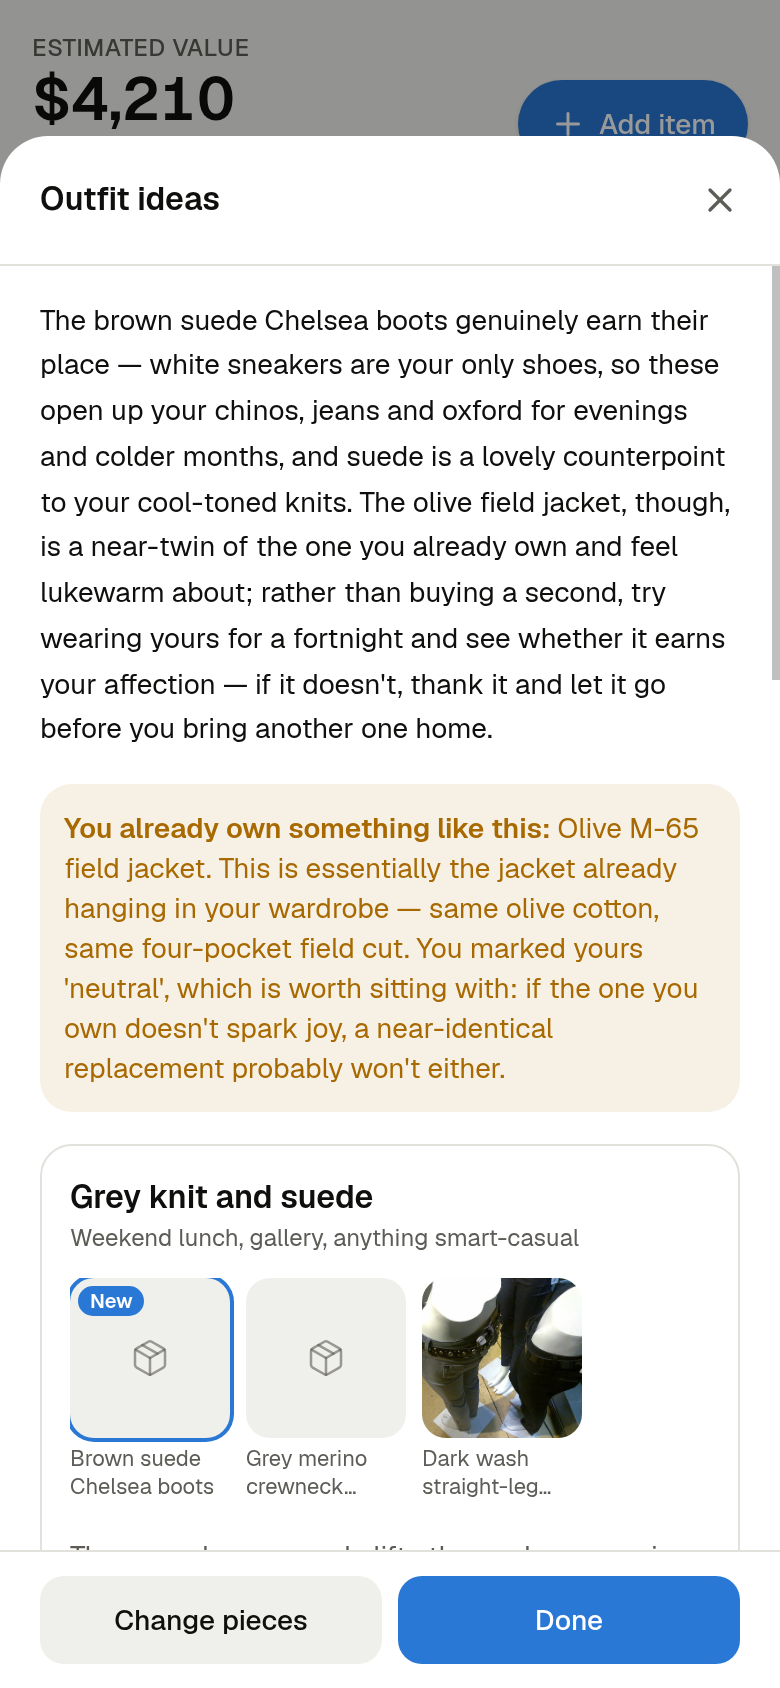
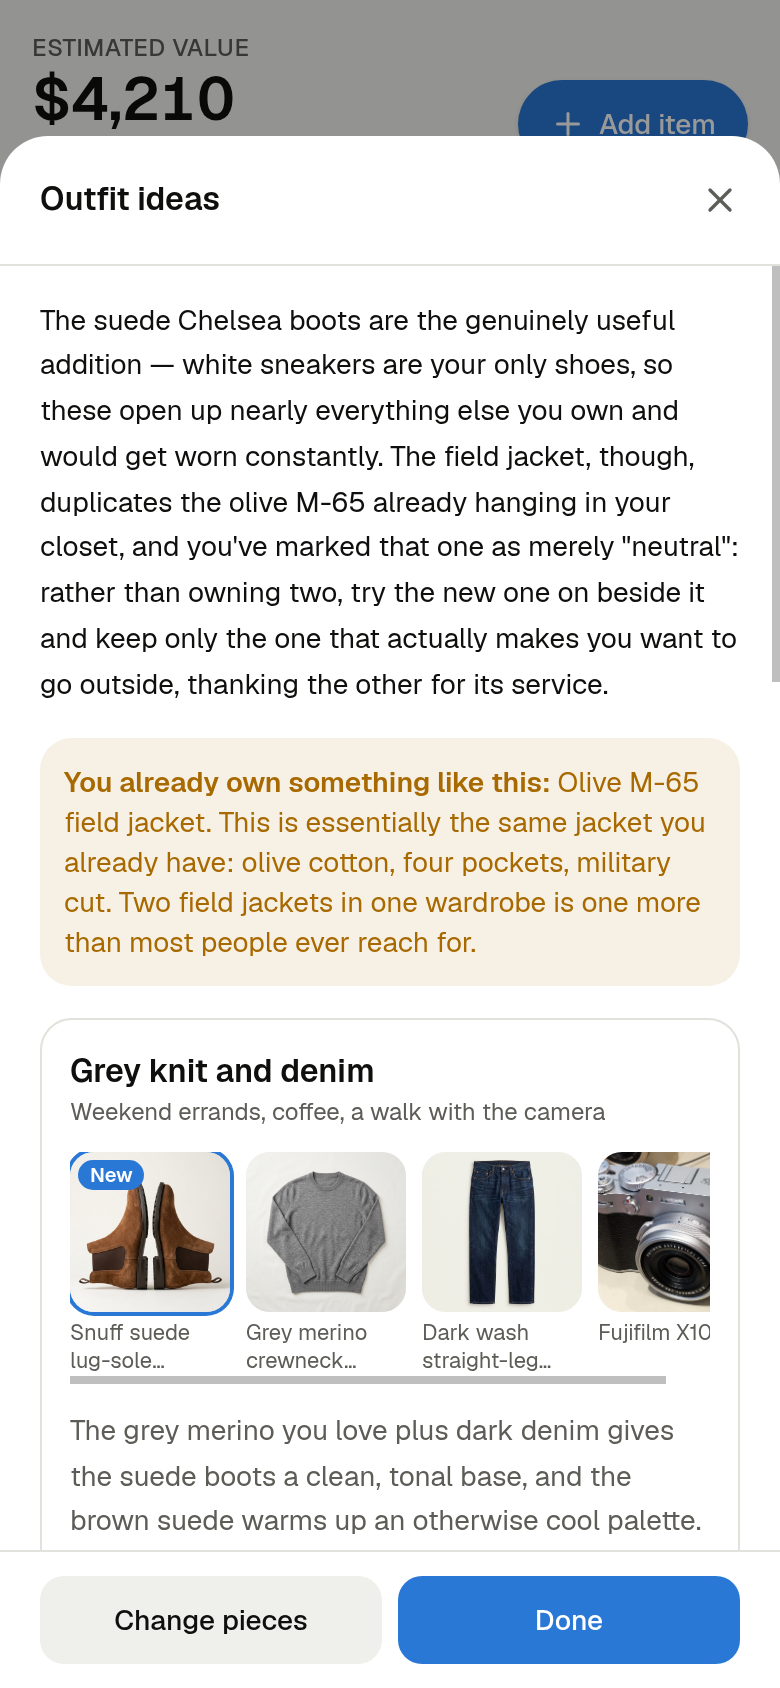
README: redo the Try it on example with a photo for every piece
The boots were a name only and most of the wardrobe had no photo, so the
screenshots showed placeholders. The boots and wardrobe now use consistent
Gemini-generated product photos; the jacket is still the CC0 Commons photo.

Changed region(s): [[0.0308, 0.1848, 0.9538, 0.9242]]

diff --git a/README.md b/README.md
@@ -67,22 +67,23 @@ The same check runs in the chat. Tell the assistant *"I'm thinking of buying…"
 
 Thinking of buying clothes? Tap **Try it on**, add photos or names of the pieces, and Claude pairs them with clothes you already own, using their photos too. It also flags anything that nearly duplicates what's in your wardrobe. Tap **See it on me** and [Gemini](https://aistudio.google.com/apikey) draws your saved photo wearing that outfit. This part needs a `GEMINI_API_KEY`; the pairings work without one.
 
-In this example, the pieces being considered are an **olive field jacket** (a photo) and **brown suede Chelsea boots** (just a name). The sample wardrobe already includes jeans, a white oxford shirt, a grey merino sweater and an olive M-65 field jacket rated *neutral*. Claude suggested four outfits. It also pointed out that the new jacket is a near-copy of the M-65, and suggested deciding whether that one still sparks joy before buying another.
+In this example, the pieces being considered are an **olive field jacket** and **brown suede Chelsea boots**, both added as photos. The sample wardrobe already includes dark jeans, a white oxford shirt, a grey merino sweater, navy chinos, white sneakers and an olive M-65 field jacket rated *neutral*. Claude suggested four outfits. It also pointed out that the new jacket is a near-copy of the M-65, and suggested deciding whether that one still sparks joy before buying another.
 
 <p align="center">
   <img src="docs/screenshots/mobile-try-on-ideas.png" width="36%" alt="Outfit ideas: advice, and a warning that the new jacket nearly duplicates an owned M-65" />
-  <img src="docs/screenshots/mobile-try-on.png" width="36%" alt="The Field jacket layered outfit, with its try-on image" />
+  <img src="docs/screenshots/mobile-try-on.png" width="36%" alt="The Field jacket layer-up outfit, with its try-on image" />
 </p>
 
-The try-on for the *Field jacket layered* outfit (the new jacket and boots with the owned oxford shirt and jeans), made from the photo on the left:
+The try-on for the *Field jacket layer-up* outfit (the new jacket and boots with the owned grey merino sweater and dark jeans). The inputs are the photo of the person and the photos of each piece; the result is on the right:
 
 <p align="center">
-  <img src="docs/screenshots/try-on-model.jpg" width="30%" alt="Input photo: a fictional model in a white t-shirt and grey trousers" />
-  <img src="docs/screenshots/try-on-jacket.jpg" width="30%" alt="Photo of the olive field jacket being considered" />
-  <img src="docs/screenshots/try-on-result.jpg" width="30%" alt="Try-on result: the same model wearing the field jacket, white oxford shirt, dark jeans and brown suede Chelsea boots" />
+  <img src="docs/screenshots/try-on-model.jpg" width="23%" alt="Input photo: a fictional model in a white t-shirt and grey trousers" />
+  <img src="docs/screenshots/try-on-jacket.jpg" width="23%" alt="Photo of the olive field jacket being considered" />
+  <img src="docs/screenshots/try-on-boots.jpg" width="23%" alt="Photo of the brown suede Chelsea boots being considered" />
+  <img src="docs/screenshots/try-on-result.jpg" width="23%" alt="Try-on result: the same model wearing the field jacket over the grey merino sweater, with dark jeans and brown suede Chelsea boots" />
 </p>
 
-The person in the photo is **fictional**: they were generated with Gemini for this example, so no real person's likeness is used. In the app, you use a photo of yourself. It's stored locally and only sent to Gemini when you ask to see an outfit on you.
+The person in the photo is **fictional**: they were generated with Gemini for this example, so no real person's likeness is used. The boots and the sample wardrobe's product photos were generated with Gemini too. In the app, you use a photo of yourself. It's stored locally and only sent to Gemini when you ask to see an outfit on you.
 
 ## Tech stack
 
@@ -158,7 +159,7 @@ Each item counts at its **estimated value**, falling back to its **MSRP** and th
 
 ## Screenshot credits
 
-The screenshots use sample data. The person in the try-on example is fictional and was generated with Gemini. The product photos come from Wikimedia Commons:
+The screenshots use sample data. In the try-on example, the person, the boots and the wardrobe photos were generated with Gemini. The other product photos come from Wikimedia Commons:
 
 | Item | Photo | License |
 |---|---|---|
@@ -172,6 +173,5 @@ The screenshots use sample data. The person in the try-on example is fictional a
 | LEGO Millennium Falcon | [Cappo80](https://commons.wikimedia.org/wiki/File:Millennium_falcon_lego.jpg) | Public domain |
 | Road bike | [Roy Egloff](https://commons.wikimedia.org/wiki/File:CH.ZH.Affoltern-am-Albis_2024-03-30_road-bike-racing.jpg) | CC BY-SA 4.0 |
 | Olive field jacket (try-on example) | [Anonymous](https://commons.wikimedia.org/wiki/File:(US)_JACKET,_FIELD,_M-1943_(STOCK_NO_55-J-190-55-J-192-98),_2002.1743.jpg) | CC0 |
-| Jeans (try-on example) | [Mark Hillary](https://commons.wikimedia.org/wiki/File:Jeans_2009.jpg) | CC BY 2.0 |
 
 Product names and trademarks belong to their owners.
